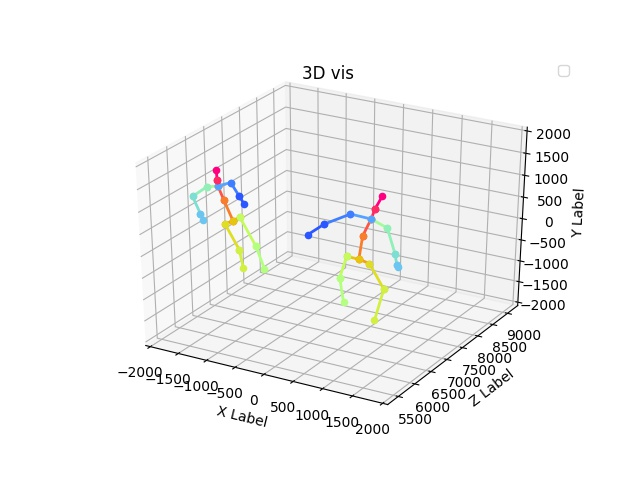
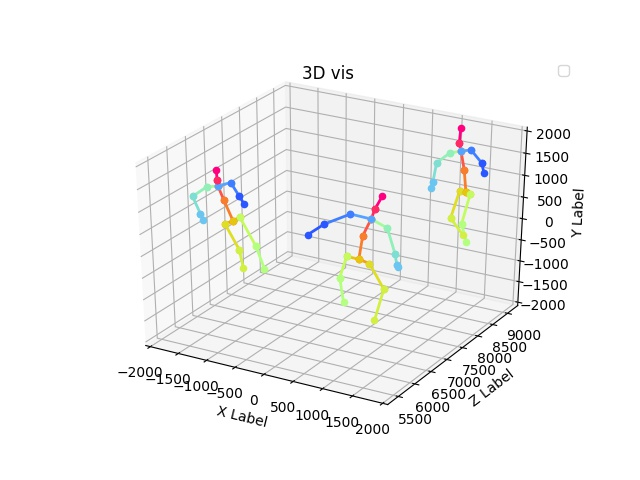
debug

Changed region(s): [[0.6562, 0.25, 0.7812, 0.5312]]

diff --git a/vis.py b/vis.py
@@ -52,7 +52,7 @@ def visualize(image, preds):
         ax.set_ylabel('Z Label')
         ax.set_zlabel('Y Label')
         ax.set_xlim([-2000,2000])
-        ax.set_ylim([min_z - 1500, min_z + 2500])
+        ax.set_ylim([min_z - 1000, min_z + 3000])
         ax.set_zlim([-2000,2000])
         ax.legend()
         plt.savefig(pipeline_cfg.output_path)
